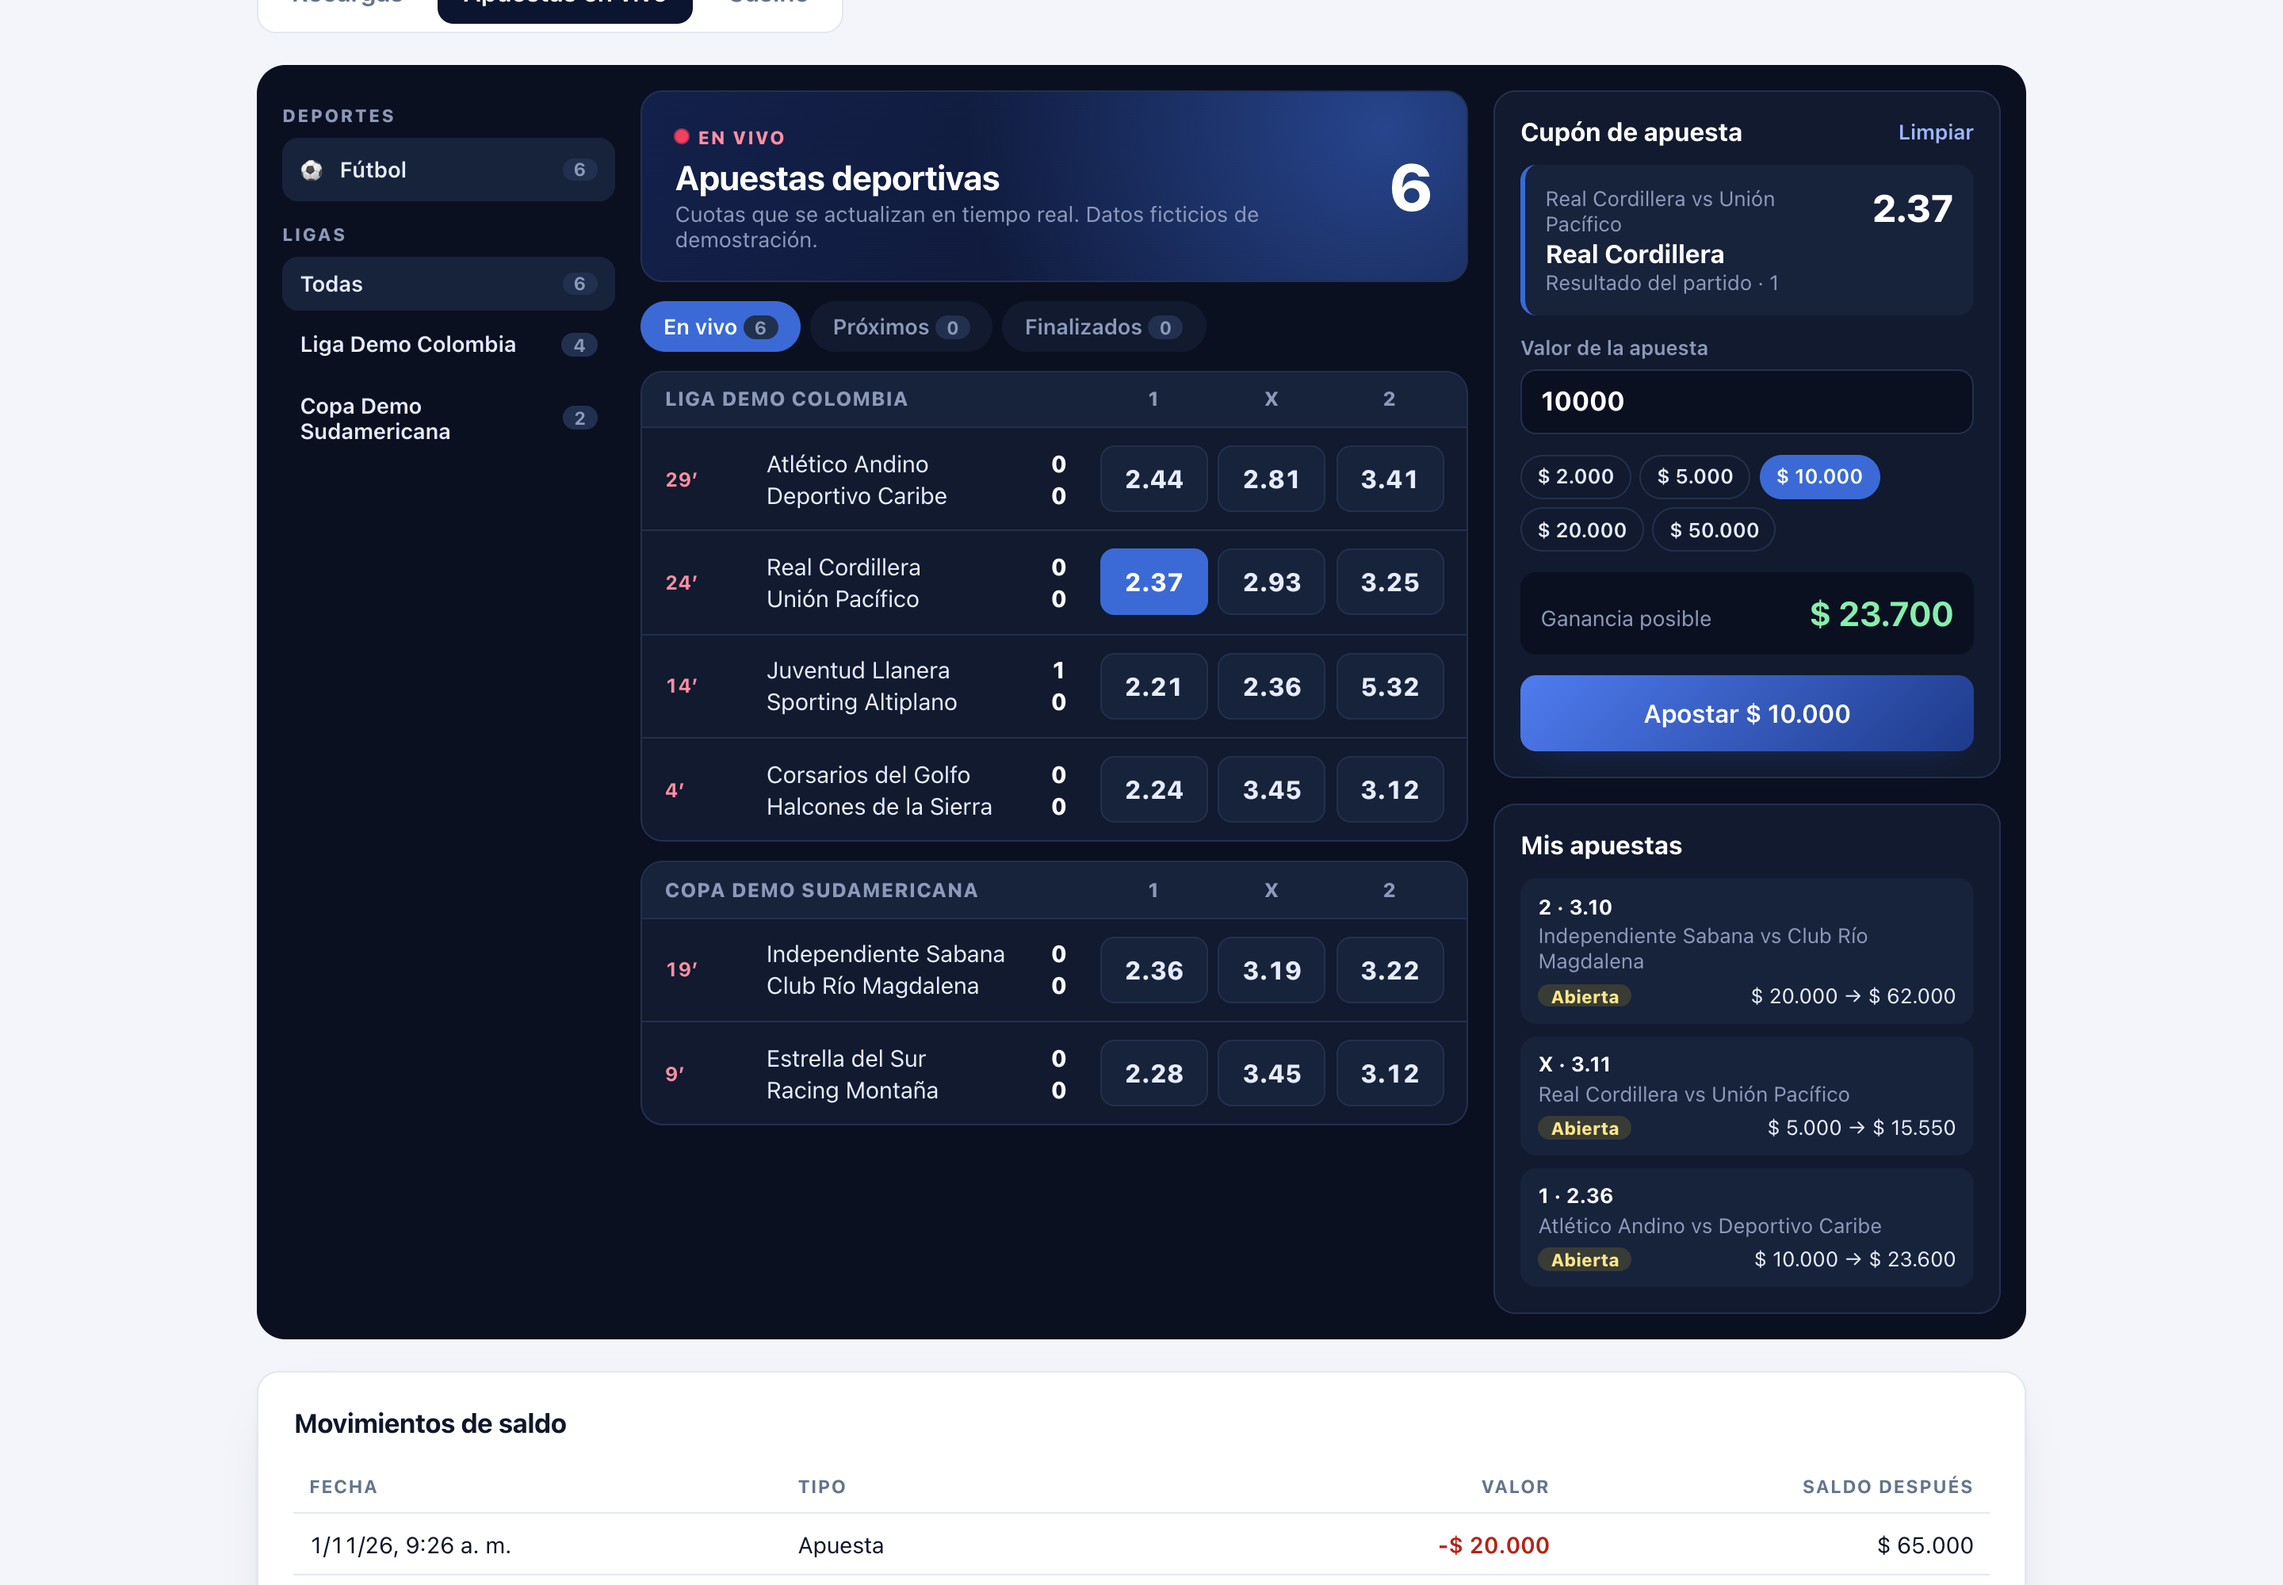
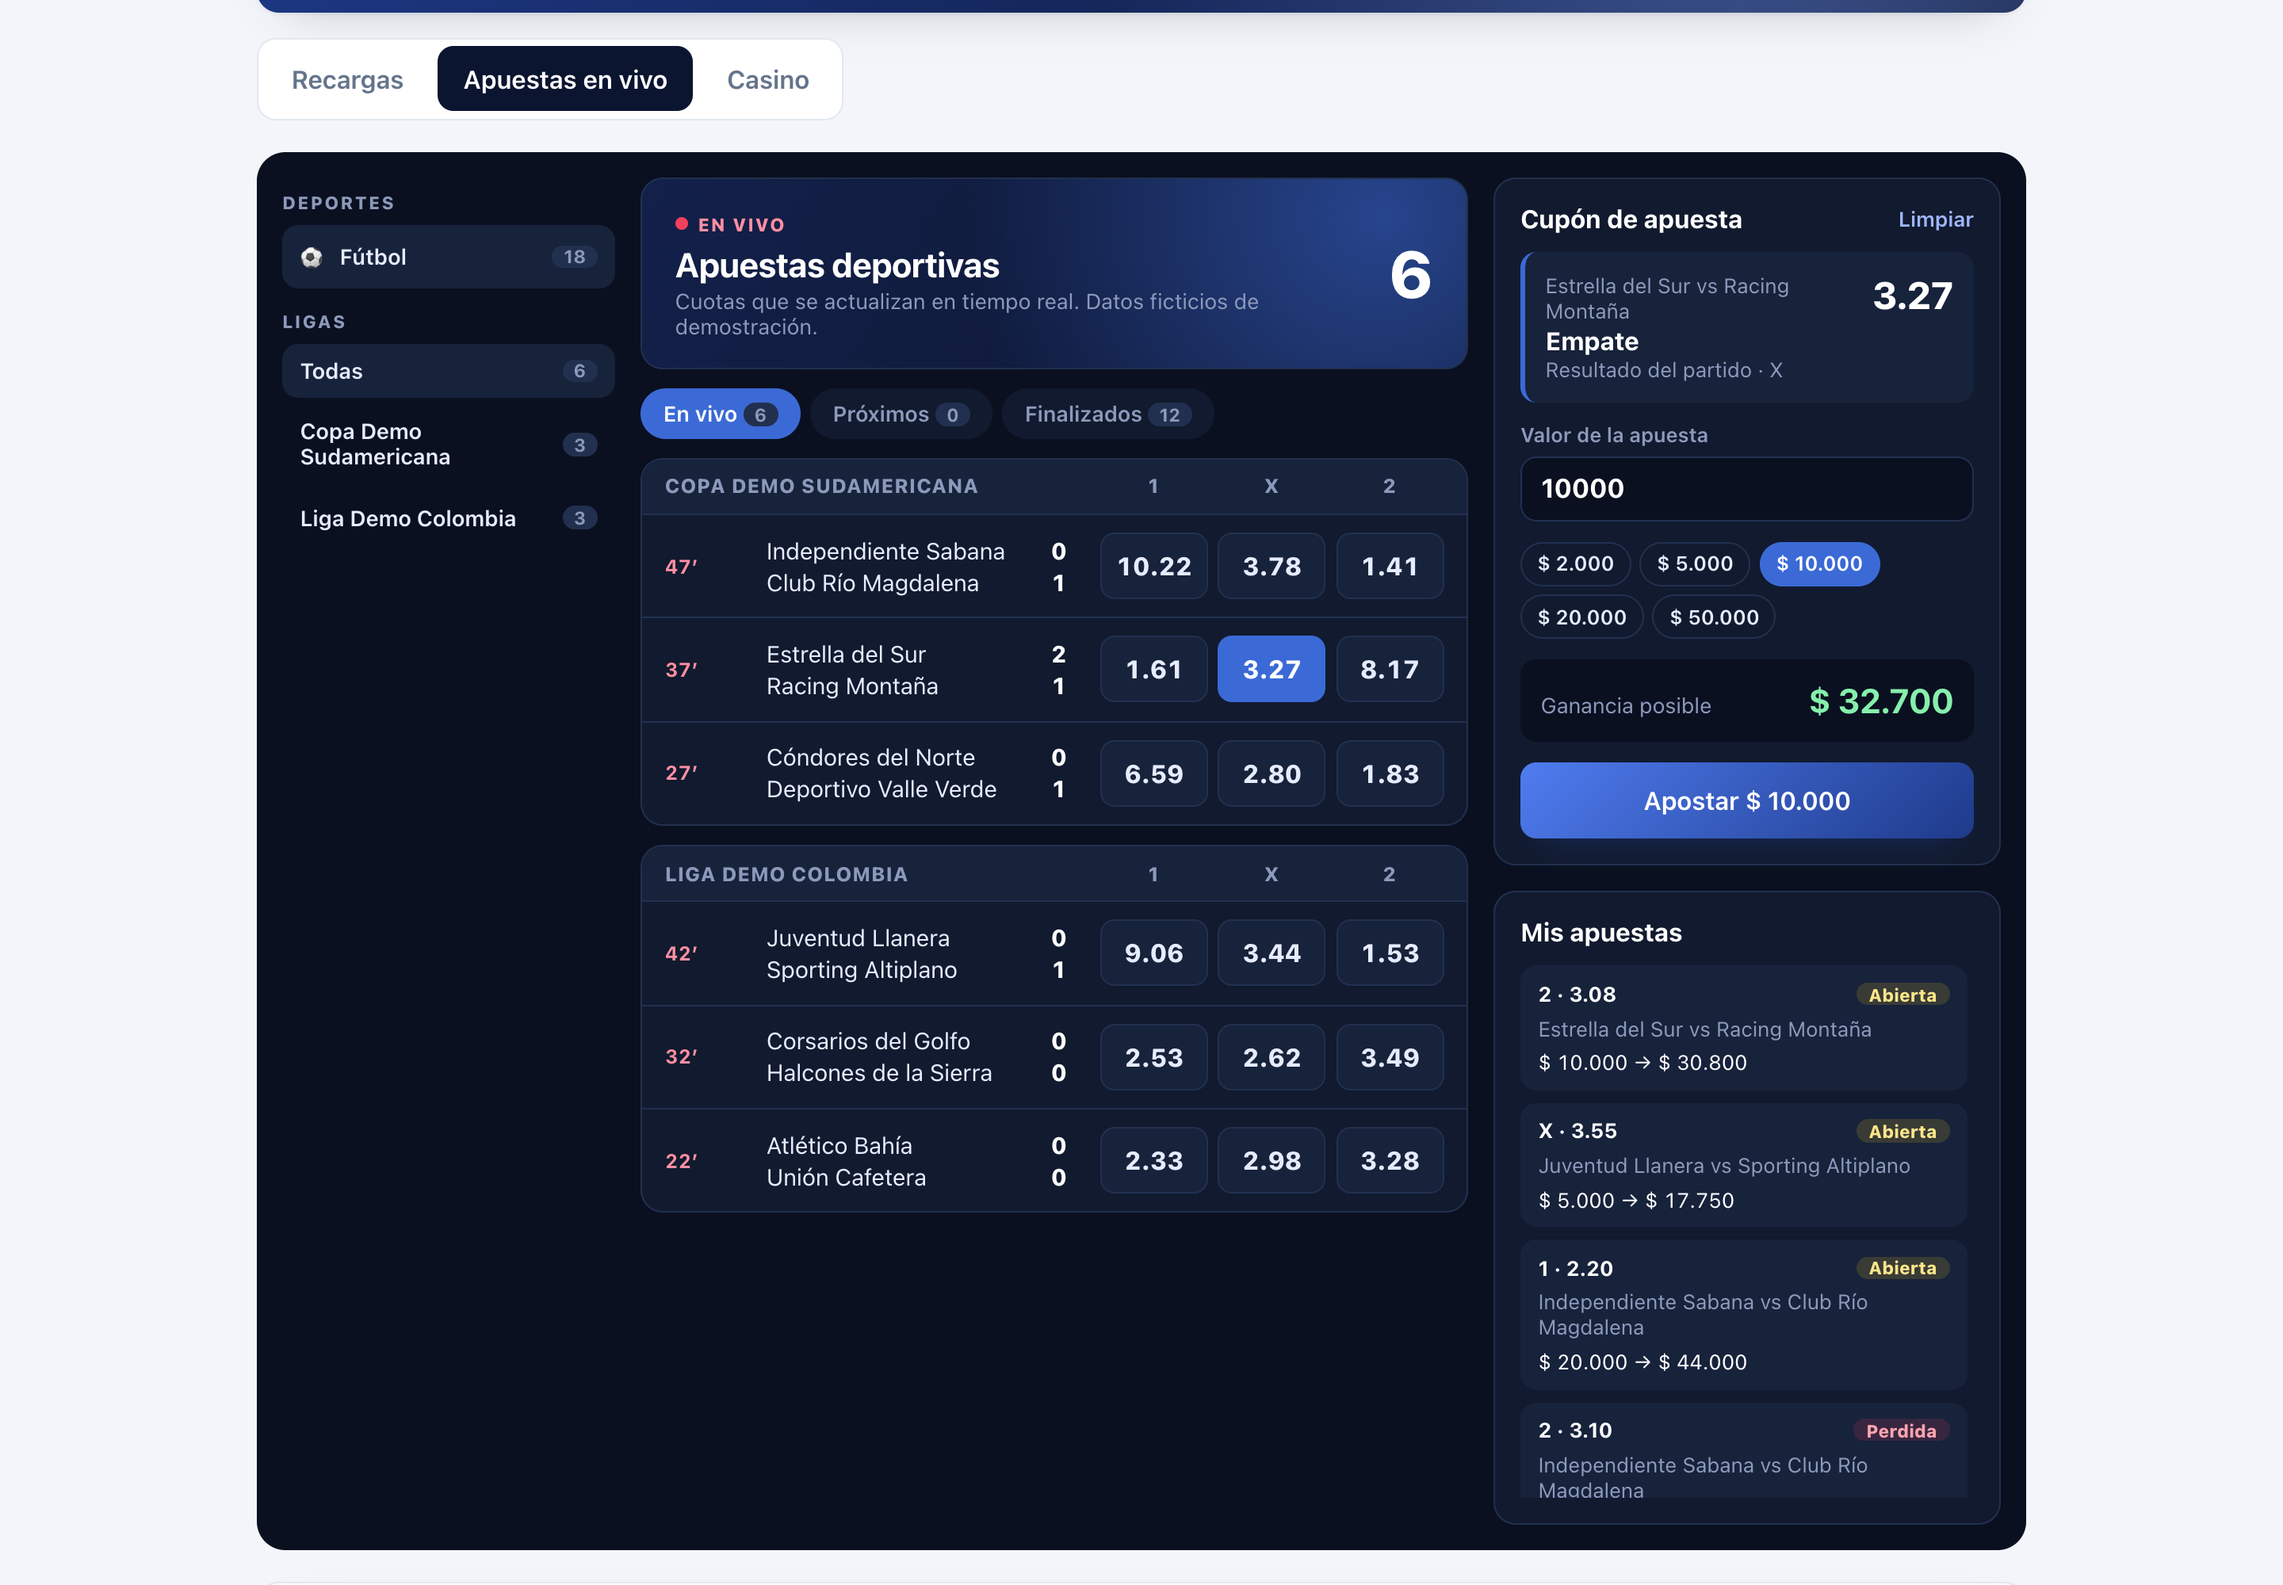
fix(betting): keep the bet status inside its card and scroll long bet lists

Changed region(s): [[0.0938, 0.0, 0.9062, 1.0], [0.2812, 0.341, 0.3125, 0.372]]

diff --git a/frontend/src/pages/Betting.tsx b/frontend/src/pages/Betting.tsx
@@ -214,21 +214,19 @@ export function LiveBetting({ token, onCompleted, onUnauthorized }: Props) {
         <section className="sb-card">
           <h3>Mis apuestas</h3>
           {bets.length === 0 && <p className="sb-muted">Aún no hay apuestas.</p>}
-          <ul className="sb-bets">
+          <ul className="sb-bets" tabIndex={0} aria-label="Mis apuestas">
             {bets.slice(0, 8).map((bet) => (
               <li key={bet.id}>
-                <div>
+                <div className="sb-bet-top">
                   <strong>
                     {PICK_LABEL[bet.pick]} · {formatOdds(bet.odds)}
                   </strong>
-                  <span className="sb-muted">{bet.match}</span>
-                </div>
-                <div className="sb-bet-right">
                   <span className={`sb-status ${bet.status.toLowerCase()}`}>{BET_STATUS_LABELS[bet.status]}</span>
-                  <span>
-                    {formatCop(bet.stake)} → {formatCop(bet.potentialPayout)}
-                  </span>
                 </div>
+                <span className="sb-muted">{bet.match}</span>
+                <span className="sb-bet-amounts">
+                  {formatCop(bet.stake)} → {formatCop(bet.potentialPayout)}
+                </span>
               </li>
             ))}
           </ul>

diff --git a/frontend/src/styles.css b/frontend/src/styles.css
@@ -978,9 +978,12 @@ th.num {
 .sb-bets {
   display: grid;
   gap: 0.5rem;
+  max-height: 21rem;
   margin: 0;
-  padding: 0;
+  padding: 0 0.25rem 0 0;
+  overflow-y: auto;
   list-style: none;
+  scrollbar-color: #334155 transparent;
 }
 
 .sb-bets li {
@@ -992,24 +995,25 @@ th.num {
   font-size: 0.82rem;
 }
 
-.sb-bets li > div {
-  display: grid;
-  gap: 0.15rem;
-  min-width: 0;
+.sb-bet-top {
+  display: flex;
+  justify-content: space-between;
+  align-items: center;
+  gap: 0.5rem;
 }
 
 .sb-bets strong {
   color: #fff;
 }
 
-.sb-bet-right {
-  display: flex !important;
-  justify-content: space-between;
-  align-items: center;
-  gap: 0.5rem;
+.sb-bet-amounts {
+  color: #fff;
+  font-variant-numeric: tabular-nums;
 }
 
 .sb-status {
+  flex-shrink: 0;
+  white-space: nowrap;
   padding: 0.05rem 0.5rem;
   border-radius: 999px;
   font-size: 0.7rem;
